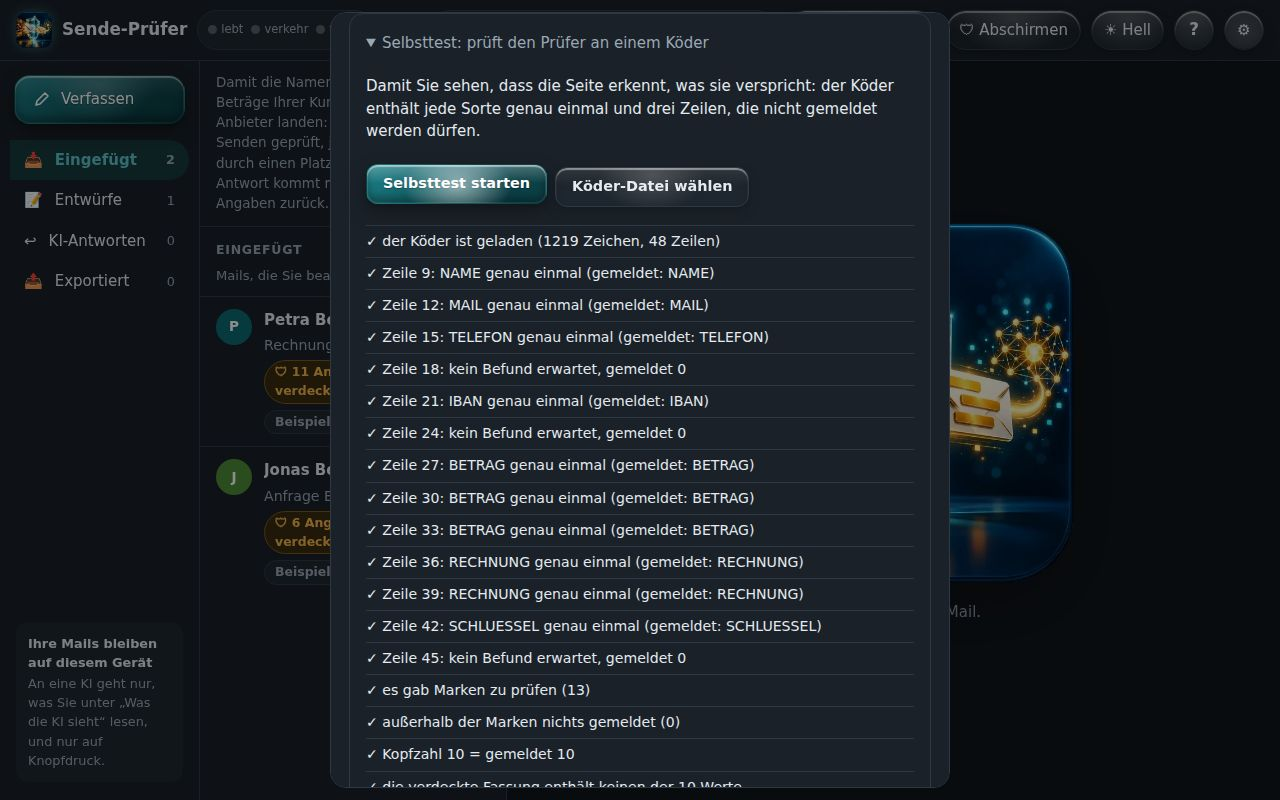
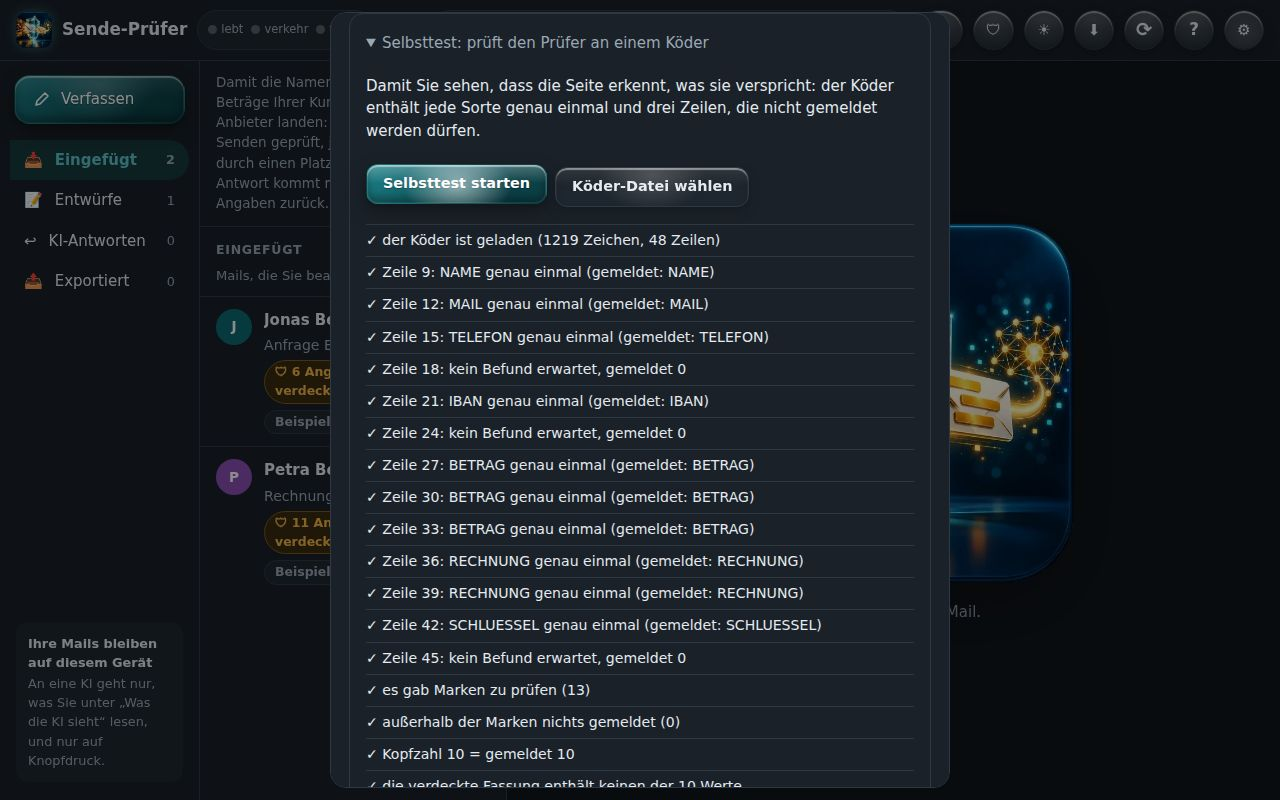
⟳ Neu laden · kein „✓ App“-Knopf in der installierten App (#59)
* Sende-Prüfer: runder ⟳-Knopf zum Neu laden (neue Version, Hard-Reload)

Klaus 2026-10-02: Aktualisierungsknopf ohne Text, nur der runde Drehpfeil.
assets/neuladen.js (nachgeladen aus sbkim-init.js, die Seite ist voll): wirft
nur die eigenen Vorräte weg (sende-pruefer-*), meldet den eigenen Worker ab,
lädt mit ?frisch= neu und putzt die Adresse danach. Mails in IndexedDB bleiben.
Steht immer direkt vor dem ?. Platz in der Kopfleiste gemessen: Beschriftungen
erst ab 1401 px, unter 360 px fehlt der Knopf. Cache v49.
Gegenprobe NEULADEN: 7 Fälle; toter Anker im TON-Fall (Schnitte seit #58) nachgezogen.

Claude-Session: https://claude.ai/code/session_011bcXqUyqWXabTT6MoWTXiR

* Installierte App: kein „✓ App“-Knopf, keine Meldung mehr

Läuft der Sende-Prüfer als installierte App, ist der Installieren-Knopf
verborgen; der Satz „es ist nichts mehr zu tun“ ist gestrichen (Klaus
2026-10-02). Probe stellt display-mode: standalone, Gegenprobe APPWEG: (2).
Cache v50, installieren.js ?v=2.

Claude-Session: https://claude.ai/code/session_011bcXqUyqWXabTT6MoWTXiR

* Handbuch neu gebaut (⟳ in der Kopfleiste), Doku zu ⟳ und App-Knopf

Der Leuchtring der Szene „Abschirmen“ sitzt wieder auf dem Knopf,
seit ⟳ die Kopfleiste verschoben hat. CLAUDE.md nennt ⟳, den
verborgenen Installieren-Knopf in der App und die wartende
englische Aufnahme.

Claude-Session: https://claude.ai/code/session_011bcXqUyqWXabTT6MoWTXiR

---------

diff --git a/assets/neuladen.js b/assets/neuladen.js
@@ -1,0 +1,66 @@
+/* Neu laden — der runde ⟳-Knopf in der Kopfleiste (Klaus 2026-10-02: „einen
+   Aktualisierungsbutton ohne den Text … einfach nur den runden Drehbutton …
+   für neue Version laden oder Hard Reload").
+   Eigene Datei, nachgeladen von assets/sbkim-init.js: in der Seite ist kein
+   Platz mehr (96-KB-Grenze). Fehlt sie, fehlt nur der Knopf.
+   Ein Tipp wirft den Vorrat dieser App weg, meldet den Service-Worker ab und
+   lädt mit GEÄNDERTER Adresse neu — nur eine andere Adresse ist für den
+   HTTP-Cache eine andere Datei; location.reload() genügt nicht.
+   Die Mails liegen in IndexedDB (SendePruefer1) und bleiben unberührt.
+   Fail-soft: scheitert ein Schritt, wird trotzdem geladen. */
+(function () {
+  "use strict";
+  var EIGEN = /^sende-pruefer-/;   /* nur die eigenen Vorräte — github.io teilen sich viele Apps */
+
+  async function neuLaden(k) {
+    if (k) { k.disabled = true; k.dataset.laedt = "1"; }
+    try {
+      if (window.caches && caches.keys) {
+        var namen = await caches.keys();
+        await Promise.all(namen.filter(function (n) { return EIGEN.test(n); }).map(function (n) { return caches.delete(n); }));
+      }
+    } catch (_e) {}
+    try {
+      if (navigator.serviceWorker && navigator.serviceWorker.getRegistrations) {
+        var regs = await navigator.serviceWorker.getRegistrations();
+        var hier = new URL("./", location.href).href;
+        await Promise.all(regs.filter(function (r) { return r.scope === hier; }).map(function (r) { return r.unregister(); }));
+      }
+    } catch (_e) {}
+    location.replace(location.pathname + "?frisch=" + Date.now() + location.hash);
+  }
+
+  /* Das Anhängsel aus der Adresszeile nehmen, ohne neu zu laden. */
+  function adresseAufraeumen() {
+    try {
+      if (/[?&]frisch=/.test(location.search) && history.replaceState) history.replaceState(null, "", location.pathname + location.hash);
+    } catch (_e) {}
+  }
+
+  function einhaengen() {
+    adresseAufraeumen();
+    if (document.getElementById("neuladen")) return;
+    var hilfe = document.getElementById("hilfe");
+    if (!hilfe || !hilfe.parentNode) return;
+    var k = document.createElement("button");
+    k.type = "button"; k.className = "rund"; k.id = "neuladen";
+    var t = "Neue Version laden (Vorrat leeren und neu laden)";
+    k.setAttribute("aria-label", t); k.title = t;
+    var z = document.createElement("span"); z.setAttribute("aria-hidden", "true"); z.textContent = "⟳";
+    k.appendChild(z);
+    k.addEventListener("click", function () { neuLaden(k); });
+    /* immer direkt vor dem ? — gleich, welche Datei zuerst geladen ist */
+    hilfe.parentNode.insertBefore(k, hilfe);
+    var st = document.createElement("style");
+    /* Platz in der Kopfleiste (gemessen 2026-10-02, Suchfeld muss >= 60 px behalten):
+       die Beschriftungen der Knöpfe erst ab 1401 statt 1201 px (bei 1280 blieben
+       dem Suchfeld sonst 42 px), und unter 360 px fehlt der Knopf (dort blieben
+       26 px) — dann über Chrome ⋮ → neu laden. */
+    st.textContent = "#neuladen{padding:0;font-size:1.2rem;font-weight:700}@media (max-width:1400px){.kopf .rund .t{display:none}}@media (max-width:359px){#neuladen{display:none}}#neuladen[data-laedt] span{display:inline-block;animation:neuladen-dreh .9s linear infinite}@keyframes neuladen-dreh{to{transform:rotate(360deg)}}@media (prefers-reduced-motion:reduce){#neuladen[data-laedt] span{animation:none}}";
+    document.head.appendChild(st);
+  }
+
+  if (document.readyState === "loading") document.addEventListener("DOMContentLoaded", einhaengen);
+  else einhaengen();
+  window.SP_NEULADEN = { neuLaden: neuLaden };
+})();

diff --git a/assets/installieren.js b/assets/installieren.js
@@ -4,7 +4,8 @@
  * offen war. Die Meldung kommt NICHT von der Seite (sie trägt den Satz nirgends),
  * sondern von Android/Chrome. Der Knopf zeigt, was der Browser über die
  * Installation weiß:
- *   · läuft die Seite schon als installierte App  → „✓ App“, ein Tipp sagt das
+ *   · läuft die Seite schon als installierte App  → kein Knopf, keine Meldung
+ *                                                   (Klaus 2026-10-02: „Es ist nichts mehr zu tun“)
  *   · der Browser bietet die Installation an      → Tipp öffnet seinen Dialog
  *   · er bietet sie nicht an                      → Tipp nennt die Gründe und den
  *                                                   Weg über das Chrome-Menü
@@ -48,6 +49,7 @@
     var k = document.getElementById("installieren");
     if (!k) return;
     var app = alsApp();
+    k.hidden = app; k.style.display = app ? "none" : "";   /* als App: weg, nicht „✓ App“ */
     k.dataset.lage = app ? "app" : (ereignis ? "angeboten" : "nicht-angeboten");
     k.querySelector("[data-z]").textContent = app ? "✓" : "⬇";
     k.querySelector(".t").textContent = app ? " App" : " Installieren";
@@ -56,10 +58,7 @@
   }
 
   function klick() {
-    if (alsApp()) {
-      melde("Der Sende-Prüfer läuft gerade als installierte App — es ist nichts mehr zu tun.");
-      return;
-    }
+    if (alsApp()) return;   /* als App gibt es keinen Knopf (Klaus 2026-10-02) */
     if (ereignis) {
       var e = ereignis; ereignis = null;
       e.prompt();
@@ -91,7 +90,8 @@
     var t = document.createElement("span"); t.className = "t";
     k.appendChild(z); k.appendChild(t);
     k.addEventListener("click", klick);
-    hilfe.parentNode.insertBefore(k, hilfe);
+    var vor = document.getElementById("neuladen") || hilfe;   /* ⟳ steht immer direkt vor dem ? */
+    hilfe.parentNode.insertBefore(k, vor);
     /* Am schmalen Handy fehlt der Platz (das Suchfeld braucht 60 px); dort geht
        der Weg über Chrome ⋮ → „App installieren". */
     var st = document.createElement("style");

diff --git a/sw.js b/sw.js
@@ -1,8 +1,8 @@
 /* Offline-Vorrat des Sende-Prüfers. Wer eine Datei aus CORE ändert, erhöht
    CACHE_VERSION — sonst liefert der Worker die alte Fassung weiter.
    Anfragen an fremde Adressen (die KI-Anbieter) fasst er NICHT an. */
-const CACHE_VERSION = "sende-pruefer-v48";
-const CORE = ["./", "index.html", "start.html", "assets/start.css?v=1", "sende-pruefer.html", "handbuch.html", "anleitung.html", "koeder.txt", "LIESMICH.md", "manifest.json", "icons/favicon-32.png", "icons/marke-72.png", "icons/sende-pruefer-bild.webp", "modules/25_pseudonym.js", "assets/abschirmung.js", "assets/sbkim-init.js", "assets/siegel-inhalt.js", "assets/schluesseltresor.js", "assets/tresor-ui.js", "assets/anbieter.js", "assets/ablehnung.js", "assets/aussen.js", "assets/anhaenge.js", "assets/installieren.js?v=1", "assets/pruefer-anhang.js", "assets/pruefer-formate.js", "assets/pruefer-mail.js", "assets/pruefer.js", "sicherheit.html", "impressum.html", "datenschutz.html"];
+const CACHE_VERSION = "sende-pruefer-v50";
+const CORE = ["./", "index.html", "start.html", "assets/start.css?v=1", "sende-pruefer.html", "handbuch.html", "anleitung.html", "koeder.txt", "LIESMICH.md", "manifest.json", "icons/favicon-32.png", "icons/marke-72.png", "icons/sende-pruefer-bild.webp", "modules/25_pseudonym.js", "assets/abschirmung.js", "assets/sbkim-init.js", "assets/siegel-inhalt.js", "assets/schluesseltresor.js", "assets/tresor-ui.js", "assets/anbieter.js", "assets/ablehnung.js", "assets/aussen.js", "assets/anhaenge.js", "assets/installieren.js?v=2", "assets/neuladen.js?v=1", "assets/pruefer-anhang.js", "assets/pruefer-formate.js", "assets/pruefer-mail.js", "assets/pruefer.js", "sicherheit.html", "impressum.html", "datenschutz.html"];
 self.addEventListener("install", (e) => {
   e.waitUntil(caches.open(CACHE_VERSION).then((c) =>
     Promise.allSettled(CORE.map((u) => c.add(new Request(u, { cache: "reload" }))))).then(() => self.skipWaiting()));

diff --git a/handbuch.html b/handbuch.html
@@ -217,7 +217,7 @@ html.bewegt .szene.da{opacity:1;transform:none}
  <div class="kopfzeile"><span class="nr">09</span><h2>Abschirmen</h2></div>
  <figure class="bild">
   <img src="handbuch/09-abschirmen.jpg" width="1280" height="800" alt="Abschirmen — Bildschirmfoto der App" loading="lazy" decoding="async">
-  <span class="ring" data-ring style="left:62.8%;top:1.3%;width:11%;height:5%"></span>
+  <span class="ring" data-ring style="left:76%;top:1.3%;width:3.2%;height:5%"></span>
  </figure>
  <p class="text"><b>🛡 Abschirmen</b> hält Schreib-Helfer wie Grammarly oder LanguageTool und die KI-Schreibhilfe des Browsers von den Schreibfeldern fern. Hängt etwas Fremdes Elemente in die Seite, erscheint oben ein roter Hinweis und die Lampe <b>fremd</b> leuchtet. Das ist eine Bitte an die Erweiterungen, kein Riegel — Programme, die den Bildschirm mitlesen, sieht keine Webseite.</p>
  <p class="sprech" data-sprech><span class="mikro" aria-hidden="true">🎙</span> Abschirmen hält Schreib-Helfer und die KI-Schreibhilfe des Browsers aus den Feldern heraus. Liest etwas Fremdes mit, leuchtet die Lampe fremd.</p>

diff --git a/assets/sbkim-init.js b/assets/sbkim-init.js
@@ -26,7 +26,9 @@
  * ========================================================================== */
 /* Installieren-Knopf (Klaus 2026-09-30): eigene Datei, hier nur nachgeladen —
    in der Seite ist kein Platz mehr (96-KB-Grenze). Fehlt sie, fehlt nur der Knopf. */
-(function () { try { var s = document.createElement("script"); s.src = "assets/installieren.js?v=1"; document.head.appendChild(s); } catch (_e) {} })();
+(function () { try { var s = document.createElement("script"); s.src = "assets/installieren.js?v=2"; document.head.appendChild(s); } catch (_e) {} })();
+/* ⟳ Neu laden (Klaus 2026-10-02), aus demselben Grund eigene Datei. */
+(function () { try { var s = document.createElement("script"); s.src = "assets/neuladen.js?v=1"; document.head.appendChild(s); } catch (_e) {} })();
 (function () {
   "use strict";
 

diff --git a/CLAUDE.md b/CLAUDE.md
@@ -551,6 +551,10 @@ gemeldet; eine unbekannte Binärdatei, ein PDF ohne pdf.js und eine verworfene O
 „ungeprüft". Die Erklärung steht im Auslieferungsprüfer (CLAUDE.md, gleicher Abschnitt).
 Cache v45. `npm test` 463 grün · 0 ROT. ⚠ Tablet nicht gemessen.
 
+## ⟳ Neu laden · kein Knopf in der App (Klaus 2026-10-02)
+
+`assets/neuladen.js` hängt einen runden ⟳-Knopf ohne Text in die Kopfleiste (wirft den eigenen Vorrat weg, lädt mit `?frisch=` neu, putzt es danach). Läuft die Seite als installierte App, ist der Installieren-Knopf verborgen und es gibt keine Meldung „nichts mehr zu tun“ (`installieren.js?v=2`). Gegenproben `NEULADEN:` (7) und `APPWEG:` (2). Cache v50.
+
 ## 🔊 Aufgenommene Stimme im Handbuch (Klaus 2026-10-02)
 
 Klaus: *„eine professionelle Stimme … nicht die Browserstimme, die so abgehackt klingt"* ·
@@ -571,7 +575,7 @@ Sprechtexte am Stück bei speechma aufgenommen (Stimme Emma, Deutsch, 120 s). Se
   hält eine hängende Datei auf.
 - Nicht im Installations-Vorrat (750 KB); `sw.js` legt nur noch Antworten mit Status 200 ab —
   beim Abspielen kommen Teil-Antworten (206), und `cache.put` scheitert daran.
-- **Englisch (Klaus 2026-10-02, Stimme Andrew):** `sprechText.en` je Szene, Aufnahme in
+- **Englisch (Klaus 2026-10-02, Stimme Andrew; eine verbesserte Aufnahme (Sonia, 123 s) wartet auf ihren Text — gegen den alten Text geschnitten liegt in Szene 06 ein Satzende 3,2 s neben der erwarteten Stelle, die Probe ist dann zu Recht rot):** `sprechText.en` je Szene, Aufnahme in
   `handbuch/ton/en/` (`node tools/handbuch-ton.mjs <aufnahme.mp3> en`), Knopf **▶ Watch in English**
   (`#vorfuehren-en`, erscheint nur, wenn jede Szene einen englischen Text trägt). Die Bilder zeigen
   weiter die deutsche Oberfläche. Russisch, Arabisch: noch keine Sprechtexte.
